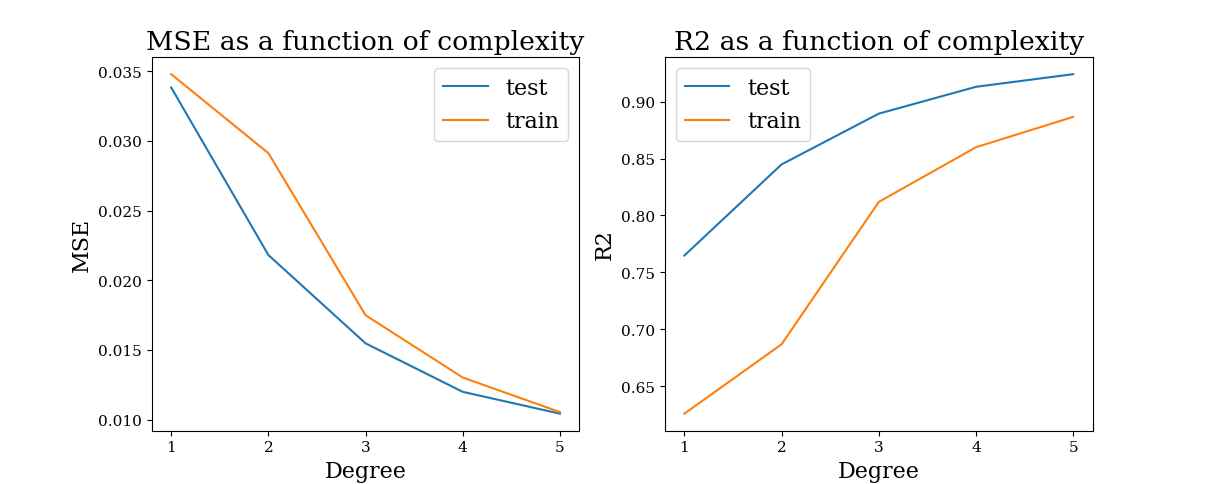
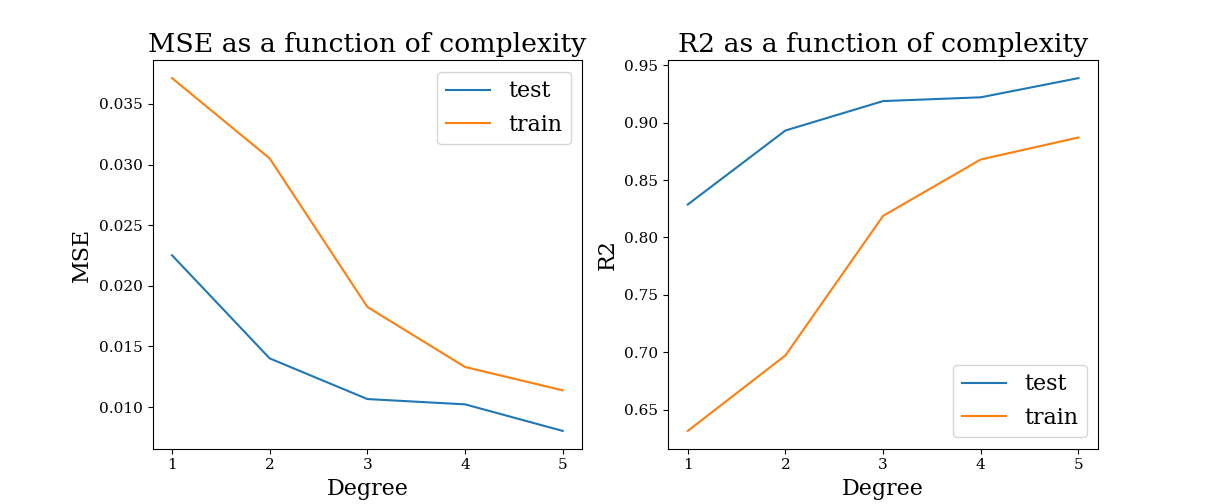
tweaks

diff --git a/project1/src/ridge.py b/project1/src/ridge.py
@@ -2,7 +2,8 @@ from matplotlib import pyplot as plt
 import matplotlib as mpl
 import numpy as np
 from sklearn.preprocessing import PolynomialFeatures, StandardScaler
-from utils import MSE, R2, makeData, Ridge, makeFigure, plotFrankefunction
+from sklearn.model_selection import train_test_split
+from utils import MSE, R2, Ridge,  plotFrankefunction, readData
 
 
 
@@ -17,14 +18,14 @@ from utils import MSE, R2, makeData, Ridge, makeFigure, plotFrankefunction
 
 
 
-maxdegree = 5
 X, y  = readData("../data/syntheticData.csv")
 x_train, x_test, y_train, y_test = train_test_split(X, y, test_size=0.2, random_state=9282)
 
 
+maxdegree = 5
+numfeatures = int(((maxdegree+1)**2  + (maxdegree-1)) / 2) 
 numlamdas = 50
 lamdas = np.logspace(1,-6,numlamdas)
-_, y, x_train, x_test, y_train, y_test = makeData(n, rand=0.1)
 polydegree = np.zeros(maxdegree)
 trainError  = np.zeros((maxdegree,numlamdas))
 testError  = np.zeros((maxdegree,numlamdas))
@@ -71,17 +72,51 @@ printGrid(trainError, testError, trainR2, testR2, polydegree, lamdas)
 
 
 
+mpl.rcParams.update({
+    'font.family': 'serif',
+    'mathtext.fontset': 'cm',
+    'font.size': '16',
+    'xtick.labelsize': '11',
+    'ytick.labelsize': '11',
+    # 'text.usetex': True,
+    'pgf.rcfonts': True,
+})
+
+fig1 , ax1 = plt.subplots()
+fig1.suptitle(r"$\mathbf{\beta}$ and model complexity for different $\lambda$")
+ax1.xticks = lamdas
+ax1.set_xscale("log")
+ax1.set_ylabel(r"$\beta$")
+ax1.plot(lamdas, betas[4,:,:int(((polydegree[4]+1)**2  + (polydegree[4]-1)) / 2)])
+ax1.set_title(r"Degree of polynomial = 5" )
 
 
-# mpl.rcParams.update({
-#     'font.family': 'serif',
-#     'mathtext.fontset': 'cm',
-#     'font.size': '16',
-#     'xtick.labelsize': '11',
-#     'ytick.labelsize': '11',
-#     # 'text.usetex': True,
-#     'pgf.rcfonts': True,
-# })
+
+plt.show()
+
+
+fig, ax = plt.subplots(5,1, figsize=(12,4))
+fig.suptitle("R2 for different model complexity and $\lambda$")
+fig.text(0.5, 0.04, r'Degree of polynomial for all $x$-axes', ha='center', va='center')
+fig.text(0.06, 0.5, 'R2-score for all $y$-axes', ha='center', va='center', rotation='vertical')
+for i,axi in enumerate(ax.flatten()):
+    axi.set_xticks(lamdas)
+    axi.set_xscale("log")
+    axi.plot(lamdas, trainR2[i], label="Train")
+    axi.plot(lamdas, testR2[i], label="Test")
+    axi.legend()
+    axi.set_title(r"Degree of polynomial" + " = " + str(polydegree[i]), size=12)
+
+plt.show()
+
+
+
+
+
+
+
+
+
 # fig1 , ax1 = plt.subplots(5,1)
 # fig1.suptitle(r"$\mathbf{\beta}$ and model complexity for different $\lambda$")
 # fig1.text(0.5, 0.04, r'$\lambda$ for all $x$-axes', ha='center', va='center')
@@ -90,10 +125,10 @@ printGrid(trainError, testError, trainR2, testR2, polydegree, lamdas)
 #     ax.set_xscale("log")
 #     ax.set_ylabel(r"$\beta$")
 #     ax.plot(lamdas, betas[i,:,:int(((polydegree[i]+1)**2  + (polydegree[i]-1)) / 2)])
-#     ax.set_title(r"Degree of polynimoal" + " = " + str(polydegree[i]))
-
-
-
+#     ax.set_title(r"Degree of polynimoal" + " = " + str(polydegree[i]),size=12  )
+#
+#
+#
 # plt.show()
 
 
@@ -102,35 +137,23 @@ printGrid(trainError, testError, trainR2, testR2, polydegree, lamdas)
 # fig.text(0.5, 0.04, r'Degree of polynomial for all $x$-axes', ha='center', va='center')
 # fig.text(0.06, 0.5, 'R2-score for all $y$-axes', ha='center', va='center', rotation='vertical')
 # for i,axi in enumerate(ax.flatten()):
-#     # axi.set_xticks(lamdas)
+#     axi.set_xticks(lamdas)
 #     axi.set_xscale("log")
 #     axi.plot(lamdas, trainR2[i], label="Train")
 #     axi.plot(lamdas, testR2[i], label="Test")
 #     axi.legend()
-#     axi.set_title(r"Degree of polynimoal" + " = " + str(polydegree[i]))
-
+#     axi.set_title(r"Degree of polynomial" + " = " + str(polydegree[i]), size=12)
+#
 # plt.show()
-
-
-
-
+#
+#
+#
+#
 # x = np.linspace(0,1,100)
 # y = np.linspace(0,1,100)
 # xx,yy = np.meshgrid(x,y)
 # poly = PolynomialFeatures(5,include_bias=False)
 # z = model.predict(scaler.transform(poly.fit_transform(np.concatenate((xx.ravel(), yy.ravel())).reshape(2,-1).T ))) + y_train_mean
-# fig = makeFigure((8,8))
-# plotFrankefunction(xx,yy,z.reshape(100,100), fig, (1,1,1) ,"Franke's Function")
+# plotFrankefunction(xx,yy,z.reshape(100,100), (8,8), (1,1,1) , "Approximation of Franke' Function using Ridge")
 # plt.show()
 
-
-
-
-
-
-
-"""
-Analysis
-
-We can see that ...
-"""

diff --git a/project1/src/frankefigure.py b/project1/src/frankefigure.py
@@ -1,6 +1,6 @@
 import matplotlib
 import matplotlib.pyplot as plt
-from utils import FrankeFunction, plotFrankefunction, makeFigure
+from utils import FrankeFunction, plotFrankefunction, readData 
 import numpy as np
 
 
@@ -25,12 +25,25 @@ y = np.linspace(0,1,100)
 xx,yy = np.meshgrid(x,y)
 z = FrankeFunction(xx,yy)
 
-fig = makeFigure((8,8))
-fig1 = makeFigure((8,8))
-plotFrankefunction(xx,yy,z, fig, (1,1,1) ,"True function")
-data = readData() 
-fig = plt.figure(figsize=(8,8))
+plotFrankefunction(xx,yy,z, (8,8), (1,1,1) ,"True function")
+plt.show()
 
+
+X,y = readData("../data/syntheticData.csv")
+fig = plt.figure(figsize=(8,8))
+fig.tight_layout()
+ax = fig.add_subplot(projection='3d')
+ax.set_title("data", fontsize=16)
+# Plot the surface.
+surf = ax.scatter(X[:,0],X[:,1], y) 
+                       
+
+# Customize the z axis.
+ax.set_zlim(-0.10, 1.40)
+
+
+# fig.colorbar(surf, shrink=0.5, aspect=5)
+# Add a color bar which maps values to colors.
 
 
 plt.show()

diff --git a/project1/src/scaleExample.py b/project1/src/scaleExample.py
@@ -1,9 +1,11 @@
+from math import sin
 import numpy as np
+from pandas.core.generic import RandomState
 from sklearn.preprocessing import PolynomialFeatures
 from sklearn.model_selection import train_test_split
 from sklearn.preprocessing import StandardScaler
 from random import random, seed
-from utils import MSE, fit_beta, fit_beta_ridge ,   makeData
+from utils import MSE, fit_beta, fit_beta_ridge ,  readData
 
 
 
@@ -14,9 +16,9 @@ Lambda = 0.1
 
 
 
+X, y = readData("../data/syntheticData.csv")
+x_train, x_test, y_train, y_test = train_test_split(X, y, test_size=0.2, random_state=9829  )
 
-# Make data set.
-X , y, x_train, x_test, y_train, y_test  = makeData(n)
 
 
 # preprocessing
